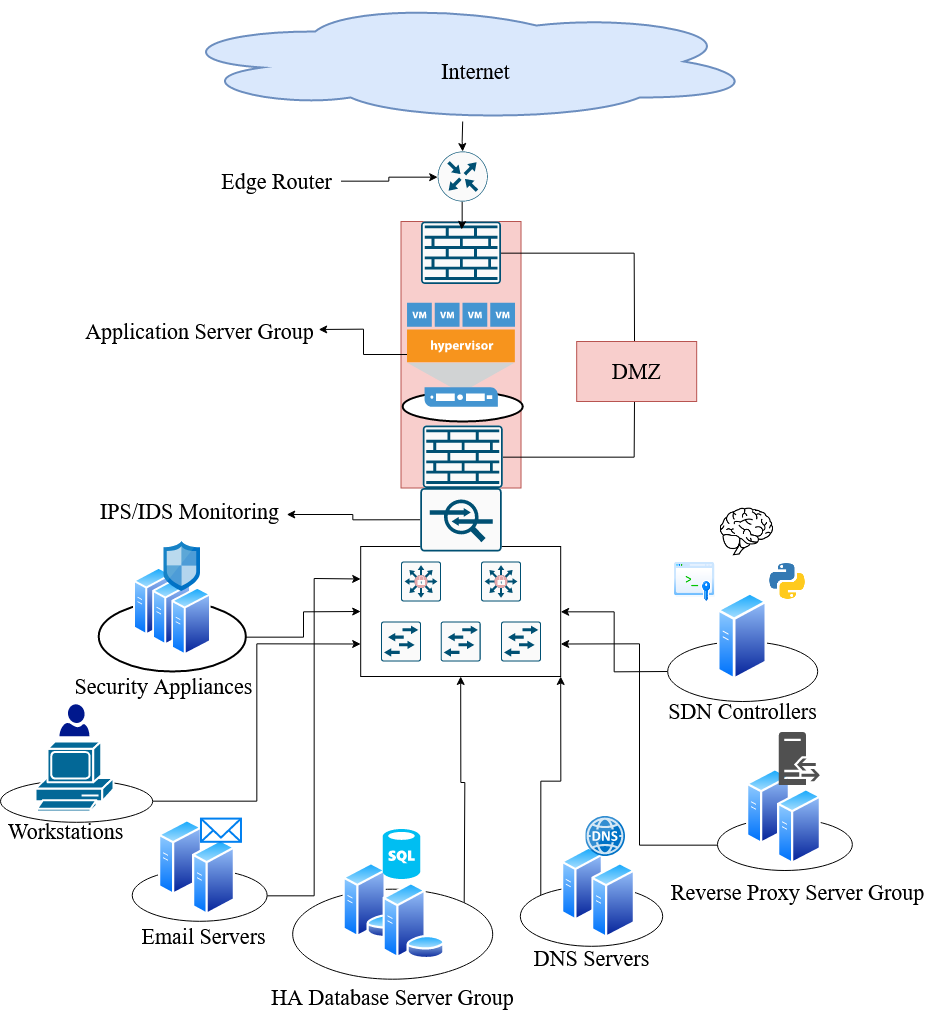
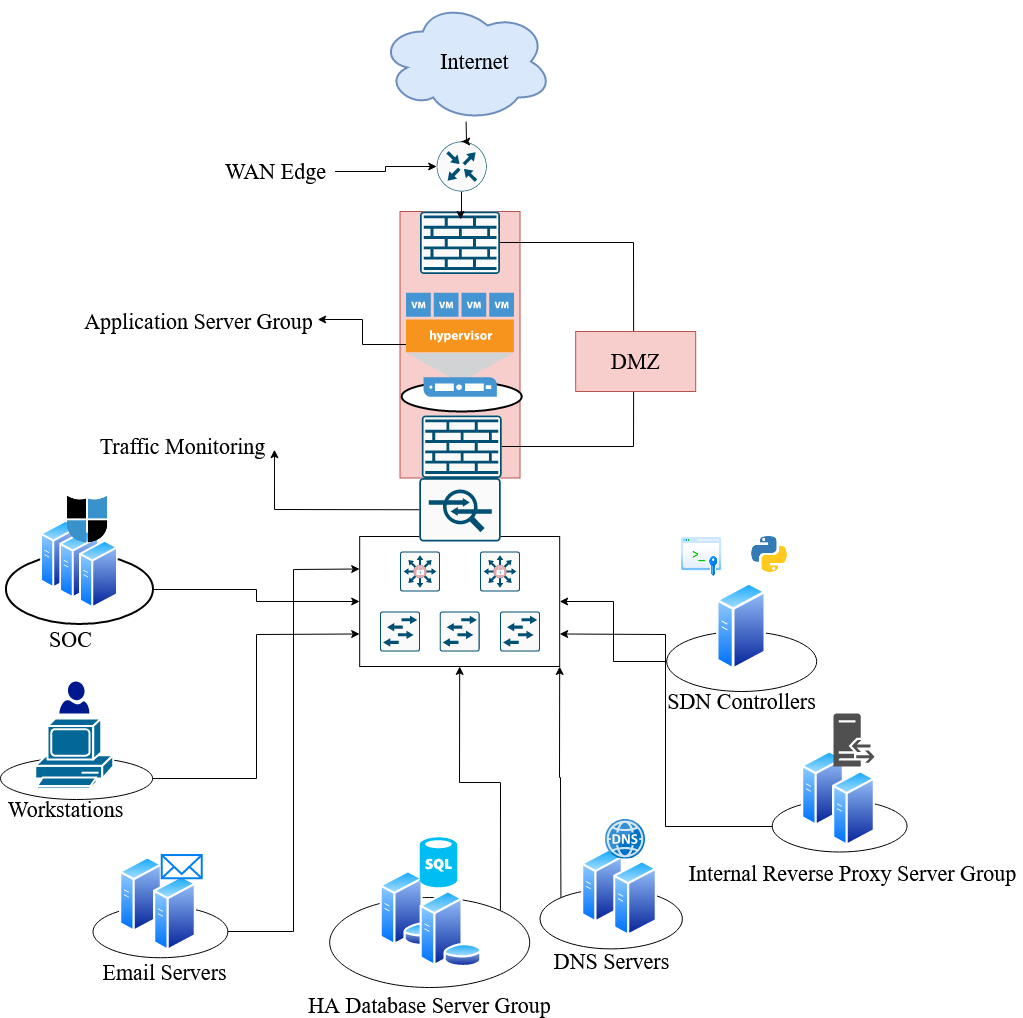
Added clicking functionality for onsite

diff --git a/change_picture.js b/change_picture.js
@@ -1,13 +1,69 @@
+
+// HTML Elements
 const cloud_btn = document.getElementById("cloud_btn");
 const onsite_btn = document.getElementById("onsite_btn");
 const writeup = document.getElementById("writeup");
 const diagram = document.getElementById("diagram");
+const display = document.getElementById("box_display");
+const pdf_display = document.getElementById("writeup");
+// Area maps for onsite
+const soc_area = document.getElementById("soc_area");
+const workstations_area = document.getElementById("workstations_area");
+const email_area = document.getElementById("email_area");
+const db_group_area = document.getElementById("db_group_area");
+const dns_area = document.getElementById("dns_area");
+const reverse_proxy_area = document.getElementById("reverse_proxy_area");
+const sdn_area = document.getElementById("sdn_area");
+const network_area = document.getElementById("network_area");
+const dmz_area = document.getElementById("dmz_area");
+const wan_area = document.getElementById("wan_area")
+const internet_area = document.getElementById("internet_area")
+const application_area = document.getElementById("application_area")
+const monitor_area = document.getElementById("monitor_area")
+// Area maps for cloud
 
+
+//onsite messages
+const soc_message = "SOC: This node represents all scanning, logging, and security automation tools implemented in this topology. This includes Splunk indexers, Splunk Phantom nodes, and Qualys scanners (Or the company’s preferred SIEM, SOAR, and Scanning solutions). This node is responsible for rapid response, recovery, and data protection. Assets in the SOC are designed for high-availability, redundancy, and resiliancy."
+const ws_message = "Workstations: This node represents all end-devices. All users and devices are granted minimum access to network resources as are necessary for their role. Devices are configured to be rapidly quarantined if necessary, and sensitive information is backed up in accordance with business goals, company policy, and regulations. Access-layer switches are configured with DHCP snooping, and other necessary security appliances are placed here to prevent MITM attacks. Strong password policies, user training, and heavy monitoring are implemented here. This node is considered one of the most significant attack vectors and is heavily monitored."
+const email_message = "Email Servers: This node represents the internal company email servers. All traffic received and sent from these servers is monitored for malicious attachments, suspicious activity, NDA breaches, and sensitive data exposure. This is another significant attack vector if emails are allowed from external organizations. Email verification and monitoring services will be applied here, such as SolarWinds Mail Assure."
+const db_message = "High Availability Database Server Group: The database services provided by this node will need to be heavily backed up, with servers placed in different failure domains. Different policies will be applied depending on the business goals, regulations, and sensitivity of the data. This cluster will be designed with a high availability configuration to meet the company’s goals and resources. This means the cluster could have active-active, hot standby, or warm standby configurations."
+const dns_message = "DNS Servers: These servers manage forward and reverse lookup zones within this internal network. To prevent DNS poisoning attacks, internal DNS queries are restricted to only cover the internal network, lessening the possibility that malicious DNS responses are received. Servers designated to resolve names or addresses to external networks are monitored for suspicious activity."
+const rp_message = "Reverse proxy server group: The software and servers that are responsible for forwarding user requests, providing access control to internal resources, and caching web resources when needed. It provides an extra layer of logic in directing web traffic. This group also provides an extra layer of monitoring and security for internal resources."
+const sdn_message = "SDN Server Group: This node utilizes infrastructure-as-code technologies such as Ansible, Terraform, and Vagrant to create a responsive, agile and scalable infrastructure. This design allows engineers to efficiently patch, manage, and monitor servers. Network devices can also be managed and configured here through services like RESTCONF and NETCONF"
+const dmz_message = "DMZ: This DMZ contains firewalls from two different vendors. If a vulnerability exists in one firewall, the entire DMZ will not be compromised. The DMZ isolates the public-facing application servers from the internal network."
+const application_message = "Application Server Group: This Application server group is made up of multiple servers in different failure domains. Each server has multiple virtual machines hosting the application. These virtual machines are managed by Terraform and can be automatically scaled up or down to meet the incoming load. If vulnerabilities are found in the software hosting the application, or in the virtual machines themselves, this design allows us to quickly apply patches, implement new software, or administer the entire server group at once. Reverse proxy software is used here to provide more efficient use of resources, traffic monitoring, and caching."
+const monitor_message = "Traffic Monitoring: This is a collection of in-line appliances and software that monitors all incoming and outgoing network traffic. These include IPS, IDS, and a NGFW. These solutions can dynamically respond to suspicious activity, send alerts, and block malicious traffic."
+const network_message = "Internal Networking devices: This node represents the Cisco collapsed-core architecture interconnecting the hosts on this network. The layer 3 switches in the distribution/core layer are used for inter-VLAN routing, and for connecting access-layer switches. DHCP servers are also included in this area of the network. Switches are configured with redundant connections for resliance. Proper layer two and layer three protections (VLANs, DHCP Snooping, BPDU guard, root guard, etc) are implemented here. This area of the network can be dynamically configured to react to network incidents by the SDN server group."
+const wan_message = "Edge router: the WAN edge for the network. It contains multiple standby routers for failover, and routers are multi-homed to at least two ISPs to protect from outages."
+const internet_message = "Public Internet: This is where all external traffic originates from. All traffic from this node is treated with extreme caution. All public traffic destined for the internal network is heavily monitored. "
+// Display box updates
+soc_area.addEventListener("click", function(){  writeup.innerHTML= soc_message});
+workstations_area.addEventListener("click", function(){  writeup.innerHTML= ws_message});
+email_area.addEventListener("click", function(){  writeup.innerHTML= email_message});
+db_group_area.addEventListener("click", function(){  writeup.innerHTML= db_message});
+dns_area.addEventListener("click", function(){  writeup.innerHTML= dns_message});
+reverse_proxy_area.addEventListener("click", function(){  writeup.innerHTML= rp_message});
+sdn_area.addEventListener("click", function(){  writeup.innerHTML= sdn_message});
+dmz_area.addEventListener("click", function(){  writeup.innerHTML= dmz_message});
+application_area.addEventListener("click", function(){  writeup.innerHTML= application_message});
+monitor_area.addEventListener("click", function(){  writeup.innerHTML= monitor_message});
+network_area.addEventListener("click", function(){  writeup.innerHTML= network_message});
+internet_area.addEventListener("click", function(){  writeup.innerHTML= internet_message});
+wan_area.addEventListener("click", function(){  writeup.innerHTML= wan_message});
+
+
+
+//Image swapping
 cloud_btn.addEventListener("click", function(){ 
     diagram.src = "assets/cloud.png";
-    writeup.src = "assets/cloud_writeup.pdf";
+    diagram.usemap = "#cloud-map";
+    diagram.style.height = "2000";
+    diagram.style.width = "1086";
 });
 onsite_btn.addEventListener("click", function(){ 
-    diagram.src = "assets/onsite.png" 
-    writeup.src = "assets/onsite_writeup.pdf";
+    diagram.src = "assets/onsite.png"; 
+    diagram.usemap = "#onsite-map";
+    diagram.style.height = "1018";
+    diagram.style.width = "1023";
 });

diff --git a/index.html b/index.html
@@ -5,22 +5,27 @@
     <meta name="viewport" content="width=device-width, initial-scale=1.0">
     <meta http-equiv="X-UA-Compatible" content="ie=edge">
     <link rel="stylesheet" href="https://maxcdn.bootstrapcdn.com/bootstrap/3.4.1/css/bootstrap.min.css">
-    <link rel="stylesheet" href="styles/cloud_map.css">
+    <link rel="stylesheet" href="styles/base_styles.css">
     <script src="https://ajax.googleapis.com/ajax/libs/jquery/3.4.1/jquery.min.js"></script>
     <script src="https://maxcdn.bootstrapcdn.com/bootstrap/3.4.1/js/bootstrap.min.js"></script>  
     <title>Davis Nelson Internship Write-up</title>
+    <script>
+        $(document).ready(function(){
+          $('[data-toggle="tooltip"]').tooltip();
+        });
+        </script>
 </head>
 <body>
     <div class="container">
-        <div class="page-header" >
-            <h1>Davis Nelson's Zappos Summer Internship Write-up</h1>
+        <!--Header--> 
+        <div class="page-header row" >
+            <h1 data-toggle='popover' data-placement="top" data-content="Content">Davis Nelson's Zappos Summer Internship Write-up</h1>
         </div>
-
-
-        <div class="btn-group btn-group-large navbuttons">
+        <!--Nav--> 
+        <div class="btn-group btn-group-large navbuttons row">
             <p id="cloud_btn" class="btn btn-primary">View Cloud Diagram</p>
             <p id="onsite_btn" class="btn btn-primary">View On-site Diagram</p>
-            <button class="btn btn-primary dropdown-toggle" type="button" data-toggle="dropdown">Dropdown Write Ups/Diagrams
+            <button class="btn btn-primary dropdown-toggle" type="button" data-toggle="dropdown">Download Write-Ups/Diagrams
             <span class="caret"></span></button>
             <ul class="dropdown-menu dropdown-menu-right">
                 <li class = "dropdown-header">Cloud</li>
@@ -31,20 +36,42 @@
                 <li><a href="assets/onsite_writeup.docx">Word Document</a></li>
                 <li><a href="assets/onsite_writeup.pdf">PDF</a></li>
             </ul>
-
-
-
-
+        </div>        
+        <!--media--> 
+        <div class="row">
+               <img id = "diagram" src="assets/onsite.png" width="1023" height="1018" alt="Error, unable to load image" usemap="#onsite-map">
+               <!--<embed id = "writeup" calss = "embed-responsive" src="" type="application/pdf" width="100%" height="800px"/>-->
         </div>
+        <div class="row">
+            <div class="writeup-box">
+                <p id="writeup"></p>
+            </div>
+        </div>
+         <!--onsite image map-->
+         <map name="onsite-map">
+            <area id="soc_area" coords="27,545,133,625" shape="rect">
+            <area id="workstations_area" coords="26,729,122,798" shape="rect">
+            <area id="email_area"coords="115,880,220,960" shape="rect">
+            <area id="db_group_area"coords="370,894,500,985" shape="rect">
+            <area id="dns_area"coords="577,861,662,943" shape="rect">
+            <area id="reverse_proxy_area"coords="803,767,881,851" shape="rect">
+            <area id="sdn_area"coords="705,601,777,682" shape="rect">
+            <area id="dmz_area"coords="573,329,698,392" shape="rect">
+            <area id="application_area"coords="405,293,518,409" shape="rect">
+            <area id="monitor_area"coords="418,478,502,536" shape="rect">
+            <area id="network_area"coords="359,539,563,667" shape="rect">
+            <area id="wan_area" coords="461,168,25" shape="circle">
+            <area id="internet_area"coords="470,62,54" shape="circle">
+        </map>
+         
+          <!--cloud image map--> 
+          <map name="cloud-map">
 
 
-    <div class="media">
-        <img id="diagram" src="assets/cloud.png" alt="Cloud Diagram" class = "img-responsive" style="visibility: visible;"> 
-        <embed id = "writeup" calss = "embed-responsive" src="assets/cloud_writeup.pdf" type="application/pdf" width="100%" height="800px"/>    
+          </map>
+
     </div>
-
-
-    </div>
+   <!--End Container, start footer--> 
     <div class="jumbotron footer">
           <p class="lead footerp">Please contact me at my email (included in the email sent) with any questions or concerns!</p>
     </div>

diff --git a/styles/base_styles.css b/styles/base_styles.css
@@ -4,6 +4,9 @@ body{
     padding: 0px;
     margin: 0px;
 }
+img{
+    margin-left: 8%;
+}
 .navbuttons{
     margin-left: 25%
 }
@@ -26,4 +29,14 @@ body{
     color: white;
     text-align: center;
     font-family: 'Bebas Neue', cursive;
+}
+.writeup-box{
+    width: 100%;
+    overflow: scroll;
+    height: 300px;
+    background-color:  #f0f0f5;
+}
+#writeup{
+    margin: 2em;
+    color: black;
 }
